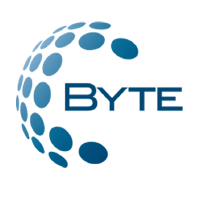
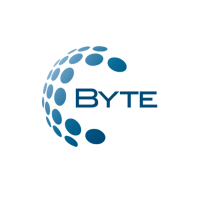
[UPDATED] added new style

Changed region(s): [[0.06, 0.09, 0.93, 0.84]]

diff --git a/index.html b/index.html
@@ -26,7 +26,7 @@
     <link rel="stylesheet" href="https://stackpath.bootstrapcdn.com/bootstrap/4.3.1/css/bootstrap.min.css" integrity="sha384-ggOyR0iXCbMQv3Xipma34MD+dH/1fQ784/j6cY/iJTQUOhcWr7x9JvoRxT2MZw1T" crossorigin="anonymous">
     <link rel="stylesheet" href="Asset/css/owl.carousel.min.css">
     <link rel="stylesheet" href="Asset/css/owl.theme.default.min.css">
-    <link rel="stylesheet" href="Asset/css/style.css">
+    <link rel="stylesheet" href="Asset/css/styles.css">
     <title>5B | Registro Conéctate</title>
   </head>
   <body>
@@ -158,11 +158,17 @@
                 <div> <img src="./Asset/img/partners/05.png" class="img-fluid" style="max-height:100%" alt=""> </div>
                 <div> <img src="./Asset/img/partners/06.png" class="img-fluid" style="max-height:100%" alt=""> </div>
                 <div> <img src="./Asset/img/partners/07.png" class="img-fluid" style="max-height:100%" alt=""> </div>
-                <div> <img src="./Asset/img/partners/08.png" class="img-fluid" style="max-height:100%" alt=""> </div>
+                <!-- <div> <img src="./Asset/img/partners/08.png" class="img-fluid" style="max-height:100%" alt=""> </div> -->
                 <div> <img src="./Asset/img/partners/09.png" class="img-fluid" style="max-height:100%" alt=""> </div>
                 <div> <img src="./Asset/img/partners/10.png" class="img-fluid" style="max-height:100%" alt=""> </div>
                 <div> <img src="./Asset/img/partners/11.png" class="img-fluid" style="max-height:100%" alt=""> </div>
-                <div> <img src="./Asset/img/partners/12.png" class="img-fluid" style="max-height:100%" alt=""> </div>
+                <div> <img src="./Asset/img/partners/13.png" class="img-fluid" style="max-height:100%" alt=""> </div>
+                <div> <img src="./Asset/img/partners/14.png" class="img-fluid" style="max-height:100%" alt=""> </div>
+                <div> <img src="./Asset/img/partners/15.png" class="img-fluid" style="max-height:100%" alt=""> </div>
+                <div> <img src="./Asset/img/partners/16.png" class="img-fluid" style="max-height:100%" alt=""> </div>
+                <div> <img src="./Asset/img/partners/17.png" class="img-fluid" style="max-height:100%" alt=""> </div>
+                <div> <img src="./Asset/img/partners/18.png" class="img-fluid" style="max-height:100%" alt=""> </div>
+                <!-- <div> <img src="./Asset/img/partners/12.png" class="img-fluid" style="max-height:100%" alt=""> </div> -->
               </div>
         </div>
     </div>

diff --git a/dashboard/registrados.html b/dashboard/registrados.html
@@ -25,7 +25,7 @@
     <!-- Bootstrap CSS -->
     <link rel="stylesheet" href="https://stackpath.bootstrapcdn.com/bootstrap/4.3.1/css/bootstrap.min.css" integrity="sha384-ggOyR0iXCbMQv3Xipma34MD+dH/1fQ784/j6cY/iJTQUOhcWr7x9JvoRxT2MZw1T" crossorigin="anonymous">
     <link rel="stylesheet" type="text/css" href="https://cdn.datatables.net/1.10.19/css/jquery.dataTables.css">
-    <link rel="stylesheet" href="../Asset/css/style.css">
+    <link rel="stylesheet" href="../Asset/css/styles.css">
     <title>5B | Registro Conéctate</title>
   </head>
   <body>

diff --git a/Asset/css/styles.css b/Asset/css/styles.css
@@ -151,16 +151,24 @@ body{
   }
 .agenda{
   display: block;
+  visibility: 100% !important;
+  opacity: 1 !important;
 }
 .agenda-min{
   display: none;
+  visibility: none !important;
+  opacity: 0 !important;
 }
 @media only screen and (max-width: 780px){
   .agenda{
     display: none !important;
+    visibility: none !important;
+    opacity: 0 !important;
   }
   .agenda-min{
     display: block !important;
+    visibility: 100% !important;
+    opacity: 1 !important;
   }
 }
   

diff --git a/dashboard/login.html b/dashboard/login.html
@@ -24,7 +24,7 @@
 
     <!-- Bootstrap CSS -->
     <link rel="stylesheet" href="https://stackpath.bootstrapcdn.com/bootstrap/4.3.1/css/bootstrap.min.css" integrity="sha384-ggOyR0iXCbMQv3Xipma34MD+dH/1fQ784/j6cY/iJTQUOhcWr7x9JvoRxT2MZw1T" crossorigin="anonymous">
-    <link rel="stylesheet" href="../Asset/css/style.css">
+    <link rel="stylesheet" href="../Asset/css/styles.css">
     <title>5B | Registro Conéctate</title>
   </head>
   <body id="app">

diff --git a/dashboard/registrado.html b/dashboard/registrado.html
@@ -24,7 +24,7 @@
 
     <!-- Bootstrap CSS -->
     <link rel="stylesheet" href="https://stackpath.bootstrapcdn.com/bootstrap/4.3.1/css/bootstrap.min.css" integrity="sha384-ggOyR0iXCbMQv3Xipma34MD+dH/1fQ784/j6cY/iJTQUOhcWr7x9JvoRxT2MZw1T" crossorigin="anonymous">
-    <link rel="stylesheet" href="../Asset/css/style.css">
+    <link rel="stylesheet" href="../Asset/css/styles.css">
     <title>Registro Conéctate</title>
   </head>
   <body>

diff --git a/dashboard/verificacion.php b/dashboard/verificacion.php
@@ -27,7 +27,7 @@ $codigo = $_GET['codigo'];
 
     <!-- Bootstrap CSS -->
     <link rel="stylesheet" href="https://stackpath.bootstrapcdn.com/bootstrap/4.3.1/css/bootstrap.min.css" integrity="sha384-ggOyR0iXCbMQv3Xipma34MD+dH/1fQ784/j6cY/iJTQUOhcWr7x9JvoRxT2MZw1T" crossorigin="anonymous">
-    <link rel="stylesheet" href="../Asset/css/style.css">
+    <link rel="stylesheet" href="../Asset/css/styles.css">
     <title>5B | Registro Conéctate</title>
   </head>
   <body>
